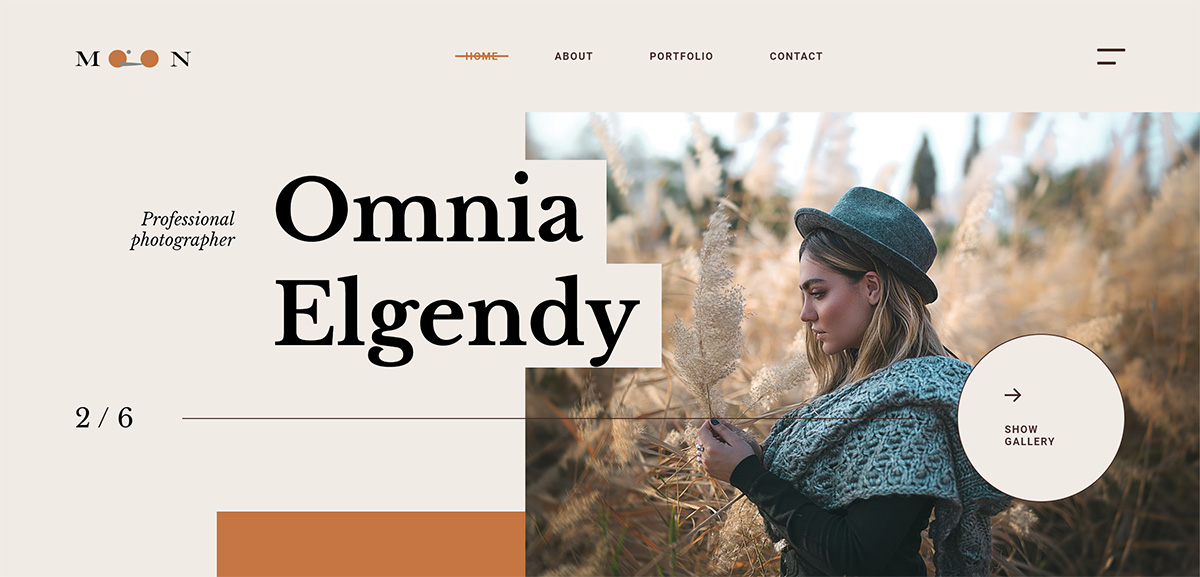
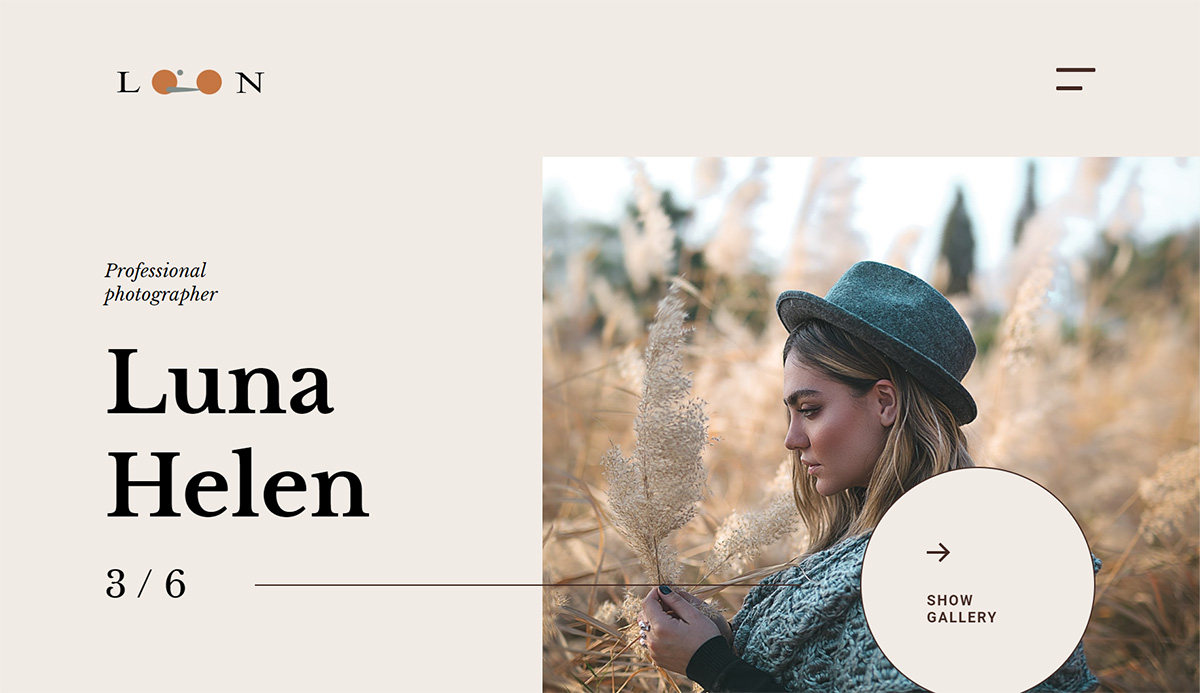
editing photo port

diff --git a/portfolio-item-02.html b/portfolio-item-02.html
@@ -24,14 +24,12 @@
       rel="stylesheet"
     />
 
-
     <link rel="preconnect" href="https://fonts.googleapis.com" />
     <link rel="preconnect" href="https://fonts.gstatic.com" crossorigin />
     <link
       href="https://fonts.googleapis.com/css2?family=Pinyon+Script&display=swap"
       rel="stylesheet"
     />
-
 
     <link rel="stylesheet" type="text/css" href="css/normalize.css" />
     <link rel="stylesheet" type="text/css" href="css/bootstrap.css" />
@@ -55,25 +53,15 @@
   </head>
 
   <body>
-
     <div id="page" class="hfeed site">
-
       <main id="main" class="site-main cd-main">
-
-
-
         <div class="site-middle">
           <div class="layout-medium">
             <div id="primary" class="content-area">
-     
               <div id="content" class="site-content" role="main">
-          
                 <div class="portfolio-single page-layout">
-
                   <article class="hentry">
-                
                     <header class="entry-header">
-                    
                       <div class="portfolio-nav">
                         <span class="prev ajax"
                           ><a href="portfolio-item-01.html">Prev</a></span
@@ -85,13 +73,11 @@
                           ><a href="portfolio-item-03.html">Next</a></span
                         >
                       </div>
-         
-                      <h1 class="entry-title">Omnia Elgendy</h1>
-                  
+
+                      <h1 class="entry-title">Ms. Helen</h1>
                     </header>
-              
+
                     <div class="entry-content">
-               
                       <div class="portfolio-desc">
                         <p>
                           A responsive website for a professional photographer &
@@ -100,21 +86,20 @@
                         </p>
 
                         <div class="portfolio-meta">
-                          <span><strong>Client</strong>Freelance - Omnia</span>
+                          <span><strong>Client</strong>Freelance - Helen</span>
                           <span><strong>Date</strong> 2022-05-07</span>
                           <span><strong>Tech</strong>Web Design, UX</span>
                         </div>
 
                         <p>
                           <a
-                            href="https://msamirzayed.github.io/Moon/"
+                            href="https://msamirzayed.github.io/Helen/"
                             target="_blank"
                             class="button primary"
                             >LAUNCH PROJECT</a
                           >
                         </p>
                       </div>
-               
 
                       <p>
                         <img
@@ -131,38 +116,26 @@
                         />
                       </p>
                     </div>
-          
                   </article>
-            
                 </div>
-            
               </div>
-          
             </div>
-           
           </div>
-     
         </div>
 
         <footer id="colophon" class="site-footer" role="contentinfo">
-     
           <div class="site-info">
             <div class="textwidget">
               <p><a>Copyright &copy; 2022 Mahmoud Samir</a></p>
             </div>
           </div>
-      
         </footer>
-    
       </main>
-
-
 
       <div class="site-alert animated"></div>
     </div>
 
     <a href="#" id="back-to-top" class="show">↑ <span>Scroll to top</span></a>
-
 
     <script src="js/tween-max.js"></script>
     <script src="js/jquery-address.js"></script>

diff --git a/index.html b/index.html
@@ -92,8 +92,8 @@
           <p class="home-marquee">
             Building creative web & mobile apps for the world's people. Always
             in search of the great user experience. Building creative web &
-            mobile apps for the world's people. Always in search of the great user
-            experience.
+            mobile apps for the world's people. Always in search of the great
+            user experience.
           </p>
 
           <i class="home-logo-left"><span>Frontend</span></i>
@@ -116,11 +116,7 @@
           href="https://www.linkedin.com/in/mahmoud-samir01/"
           target="_blank"
         ></a>
-        <a
-          class="social-link twitter"
-          href="https://twitter.com/0MahmoudSamir"
-          target="_blank"
-        ></a>
+
         <a
           class="social-link github"
           href="https://github.com/msamirzayed"

diff --git a/resume.html b/resume.html
@@ -280,10 +280,10 @@
                           </div>
                           <!-- section-title -->
                           <div class="testo">
-                            <a href="https://msamirzayed.github.io/Moon/" target="_blank">
-                              <img src="images/site/testo-02.png" alt="someone" />
+                            <a href="https://msamirzayed.github.io/Helen/" target="_blank">
+                              <img src="images/site/testo-02.png" style="width:94px" alt="someone" />
                             </a>
-                            <h3>Omnia Elgendy</h3>
+                            <h3>Ms. Helen</h3>
                             <h5>Photographer & Graphic Desinger</h5>
                             <p>
                              He has marvelous attention to details,

diff --git a/portfolio.html b/portfolio.html
@@ -118,7 +118,7 @@
                           </div>
 
                           <div class="media-cell-desc">
-                            <h3>Omnia Elgendy</h3>
+                            <h3>Ms. Helen</h3>
                             <p class="category">Photographer Portfolio</p>
                           </div>
                         </div>
